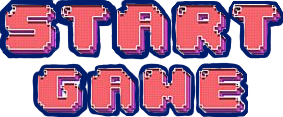
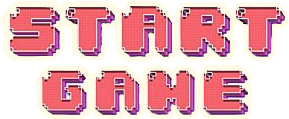
pull name and scores on left side bar

diff --git a/src/main.css b/src/main.css
@@ -3,8 +3,7 @@ body {
   justify-content: center;
   align-items: center;
   height: 100vh;
-  background-color: #ffffff;
-  /* background-color: #2f2b48; */
+  background-color: #6db8e9;
   margin: 0;
   padding: 0;
 }
@@ -35,18 +34,47 @@ button {
 
 .start-game-container{
   position: absolute; /* 绝对定位 */
-    top: 100%; /* 垂直位置，根据需要调整 */
-    left: 46%; /* 水平位置，根据需要调整 */
+    top: 95%; /* 垂直位置，根据需要调整 */
+    left: 30%; /* 水平位置，根据需要调整 */
     transform: translate(-50%, -50%); /* 使按钮居中 */
     z-index: 10; /* 确保按钮显示在图片之上 */
 }
 
+.sidebar-container-left {
+  width:80px; 
+  height: 670px; 
+  border-radius: 30px;
+  background-color: #f0a6ba; /* 您可以选择任何颜色 */
+  border: 8px solid rgb(187, 246, 226);
+}
+
+.sidebar-container-right {
+  /* margin-right: 10px; */
+  width: 80px; 
+  height: 670px; 
+  border-radius: 30px;
+  background-color: #f0a6ba;; 
+  border: 8px solid rgb(187, 246, 226);
+}
+
 .start-game-container img{
-  width: 150%;
+  width: 270%;
 }
 
 .start-game-button {
   cursor: pointer; /* 鼠标悬停时显示指针 */
+}
+
+#score-list {
+  list-style: none;
+  padding: 0;
+}
+
+#score-list li {
+  margin-bottom: 10px;
+  background: #eee;
+  padding: 5px;
+  border-radius: 8px;
 }
 
 .hidden {

diff --git a/src/snakyOff.js b/src/snakyOff.js
@@ -343,6 +343,29 @@ for (let i = 0; i < snakesNPCNum; i++) {
   createSnakesNPC(i);
 }
 
+function fetchScoresAndDisplay() {
+  fetch('https://snake-game-405604.ue.r.appspot.com/get_scores')
+      .then(response => response.json())
+      .then(data => {
+          // 仅获取前五名
+          const topScores = data.scoers.slice(0, 5);
+          // console.log(data);
+          displayScores(topScores);
+      })
+      .catch(error => console.error('Error fetching scores:', error));
+}
+
+function displayScores(scores) {
+  const scoreList = document.getElementById('score-list');
+  scoreList.innerHTML = ''; // 清空现有内容
+
+  scores.forEach(score => {
+      const scoreItem = document.createElement('li');
+      scoreItem.innerHTML = `Username: ${score.player_name} <br> Score: ${score.score}`;
+      scoreList.appendChild(scoreItem);
+  });
+}
+
 function main() {
   if (snakePlayer1.isDead && snakePlayer2.isDead) {
     // alert("Game Over Snake1&2 dead");
@@ -366,7 +389,8 @@ function main() {
 
 //键盘按下事件监听器
 document.addEventListener('keydown', moveDirection);
-document.addEventListener('keyup', moveDirection)
+document.addEventListener('keyup', moveDirection);
+document.addEventListener('DOMContentLoaded', fetchScoresAndDisplay);
 
 
 main();

diff --git a/index.html b/index.html
@@ -14,13 +14,22 @@
 <body>
     <!-- 页面内容如下 -->
     <!-- 定义canvas画布 -->
+    <div class="sidebar-container-left">
+        <ul id = "score-list">
+
+        </ul>
+    </div>
     <canvas id="gameCanvas" width="1200" height="680"></canvas>
-    <div id="game-over-container" class="hidden">
+    <div class="sidebar-container-right">
+        
+    </div>
+    
+    <script src="./src/snakyOff.js"></script>
+    <!-- <div id="game-over-container" class="hidden">
         <div class="game-over-content">
             <p>游戏结束</p>
             <button id="restart-button">重新开始</button>
         </div>
-    </div>
-    <script src="./src/snakyOff.js"></script>
+    </div> -->
 </body>
 </html>
